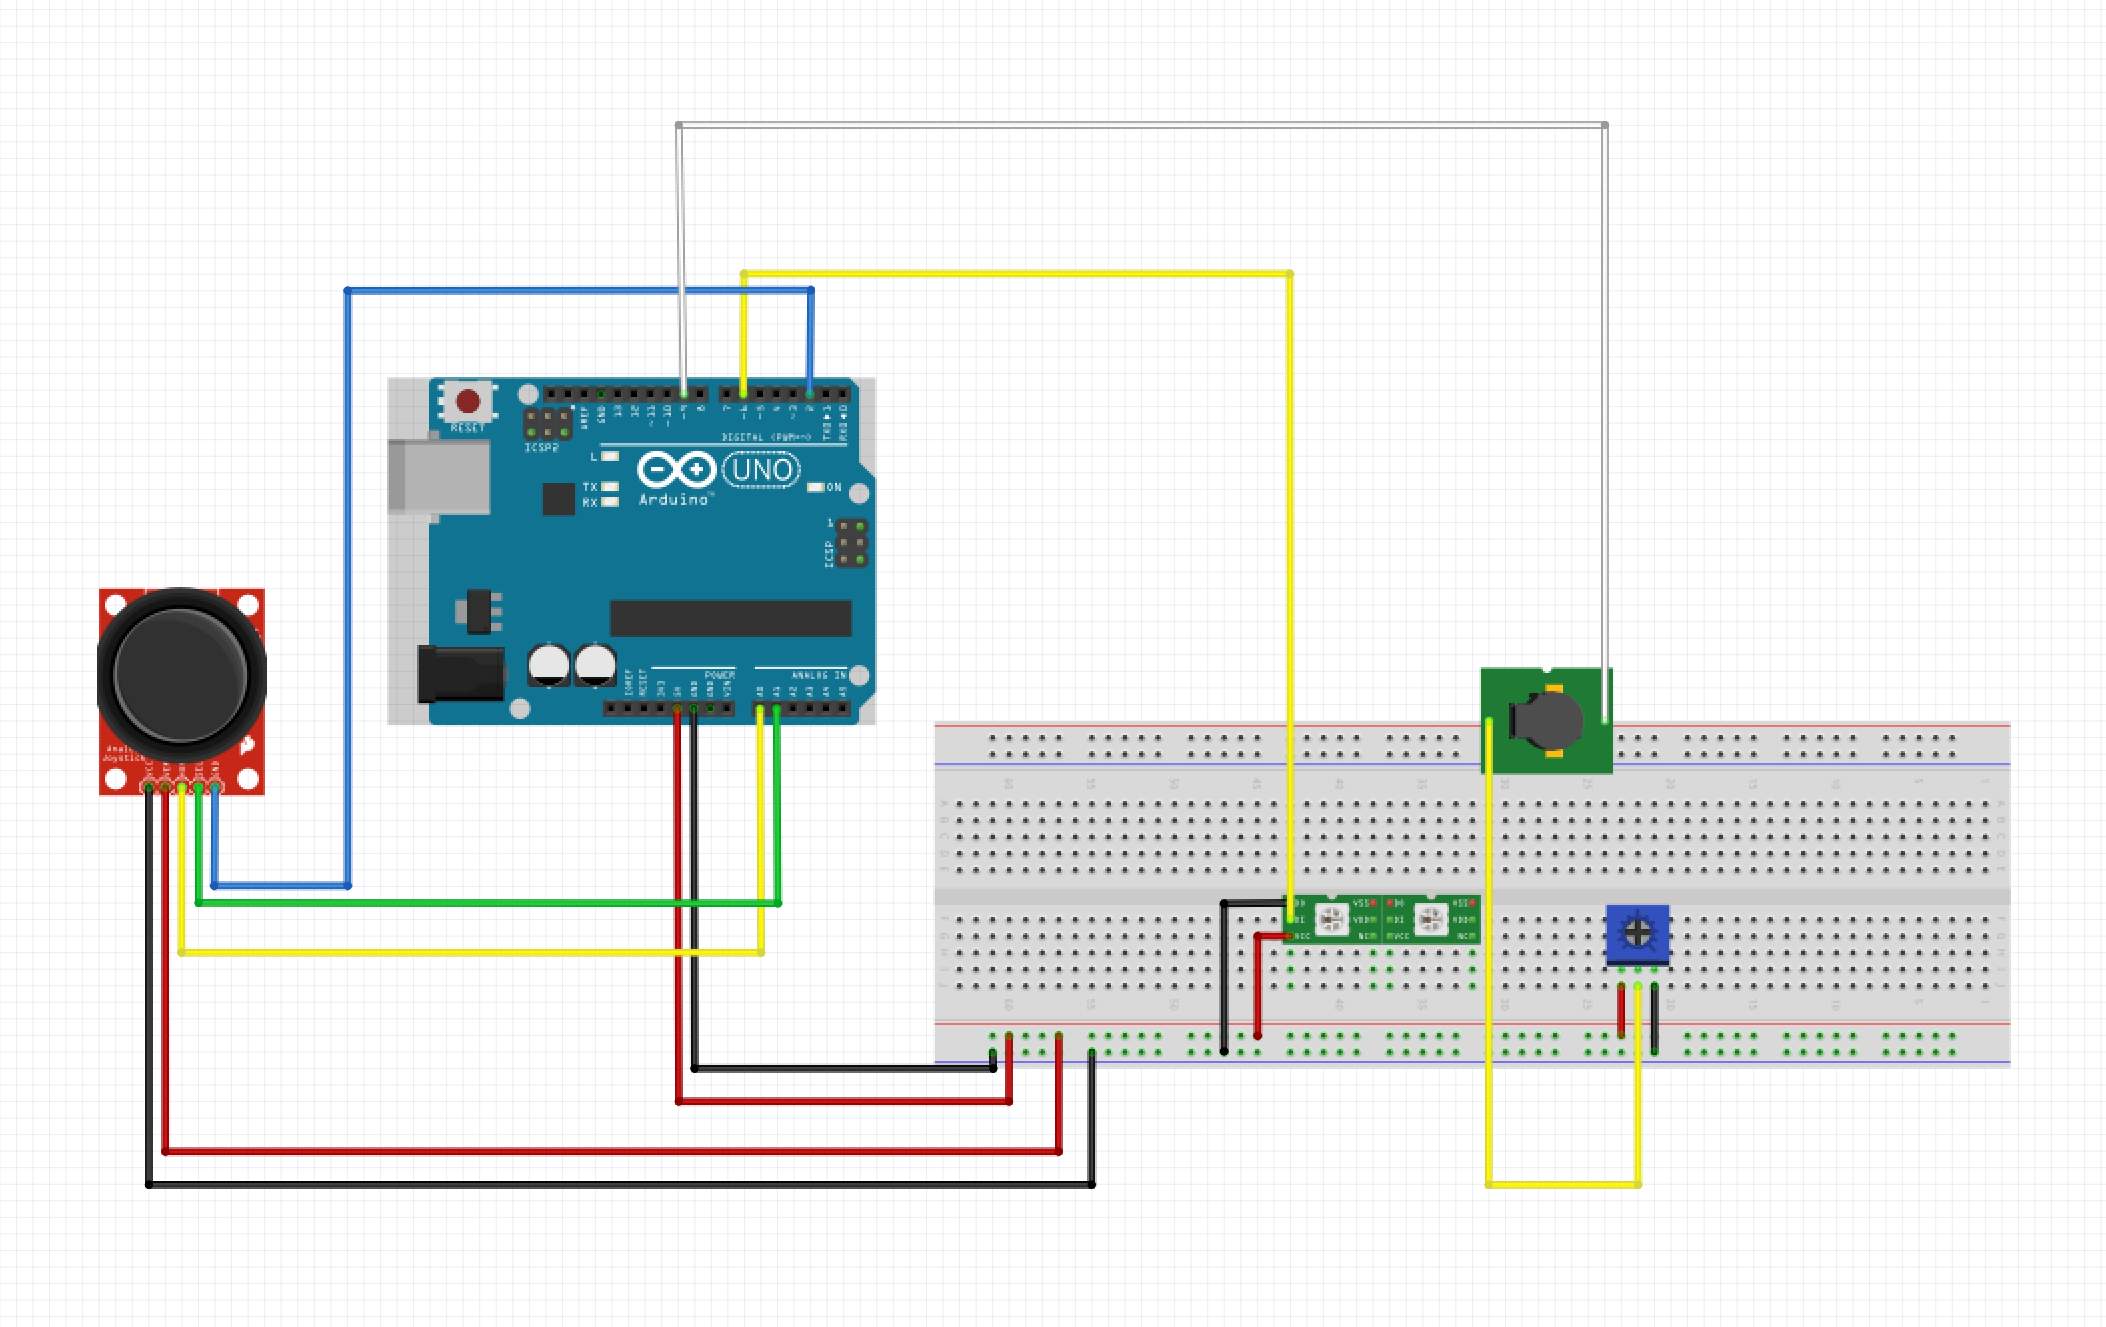
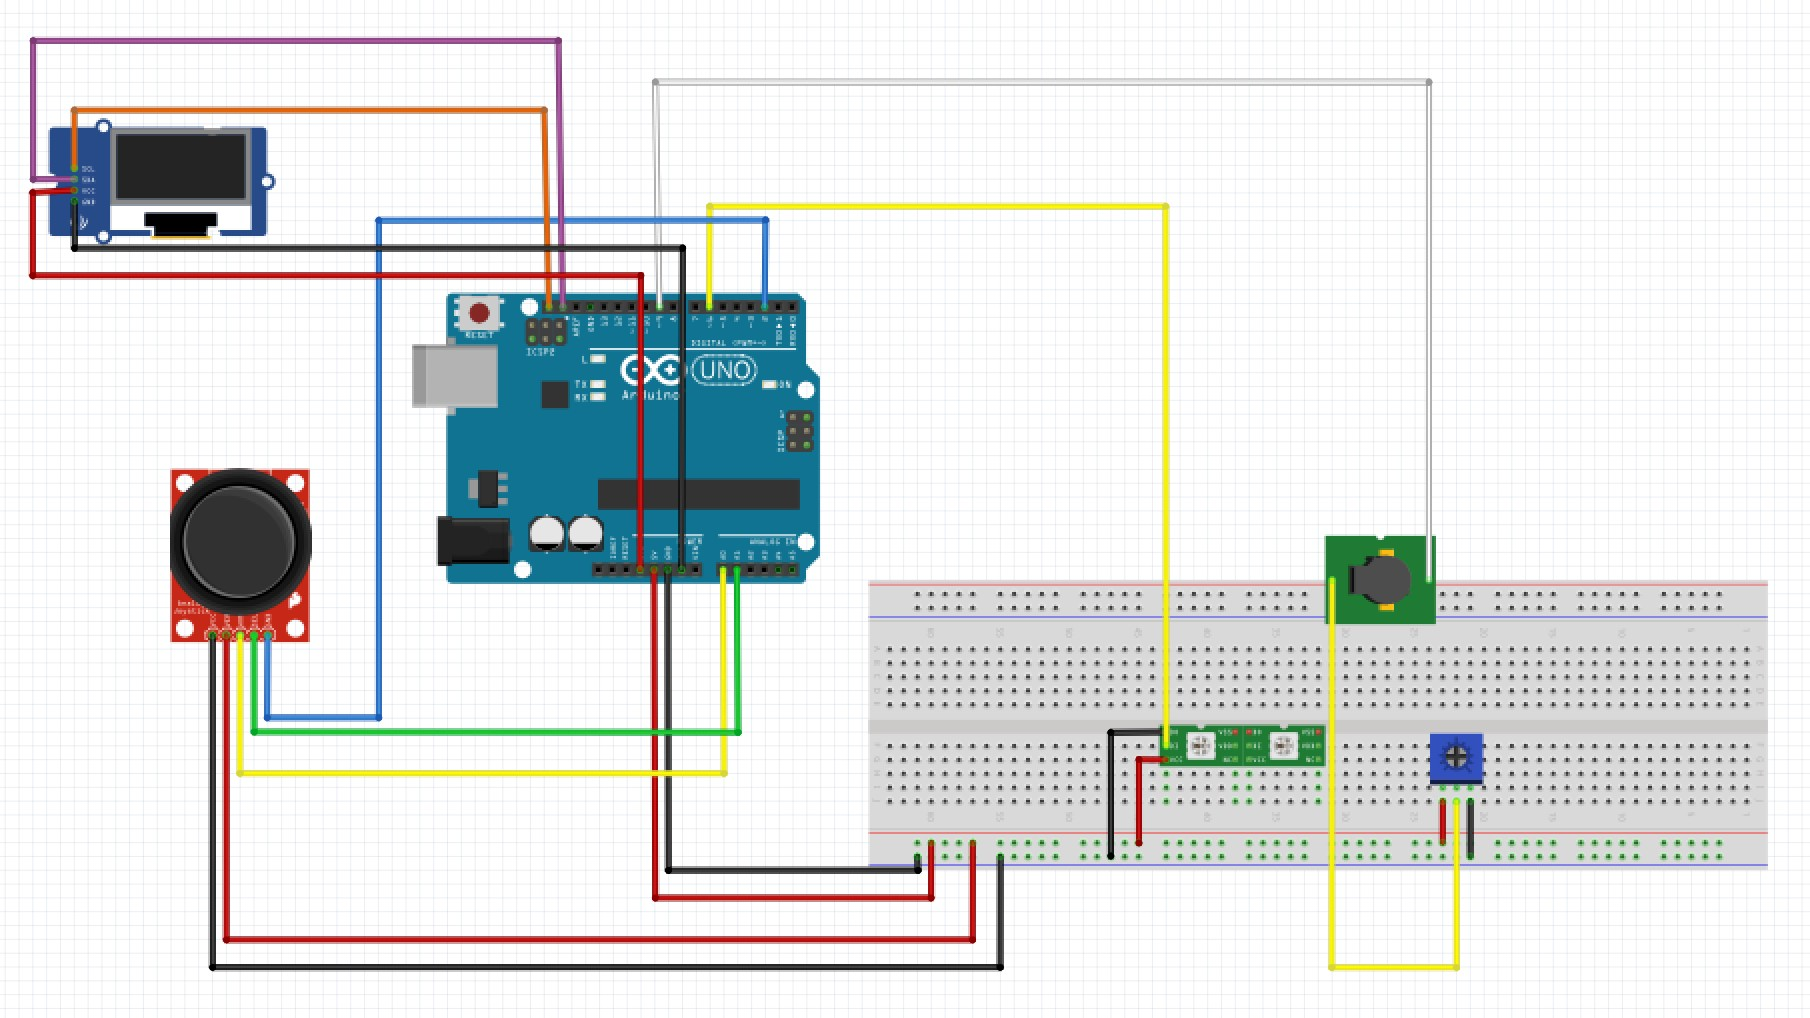
配線図をOLED追加版に差し替え／READMEの重複を整理
- 回路図.png を OLED(接続用QR表示)込みの新配線図に差し替え。RPGの配線表にOLED行を追加、
  UNO表記だが実機はUNO R4 WiFiである旨を注記
- 各READMEで重複していた「外で遊ぶ」をリポジトリ直下READMEに集約し、
  サブ側はそちらへのリンクに（役割分担で重複を解消）

Changed region(s): [[0.0, 0.0305, 0.9901, 0.9745], [0.7425, 0.944, 0.8044, 0.9745]]

diff --git a/RPG_Quest/README.md b/RPG_Quest/README.md
@@ -125,14 +125,17 @@ flowchart LR
 ## 配線・回路図（実機で遊ぶ場合）
 
 <p align="center">
-  <img src="回路図.png" width="560" alt="回路図：Arduino UNO ＋ ジョイスティック / WS2812 RGB LED / パッシブブザー / ボリューム">
+  <img src="回路図.png" width="600" alt="回路図：Arduino UNO R4 WiFi ＋ OLED(QR表示) / ジョイスティック / WS2812 RGB LED / パッシブブザー＋ボリューム">
 </p>
+
+> ※図はUNO表記ですが、実機は **Arduino UNO R4 WiFi**（配線は同じ）。OLEDは接続用QRの表示に使います。
 
 | 部品 | Arduino | 備考 |
 |------|---------|------|
 | ジョイスティック VRx / VRy / SW | A0 / A1 / D2 | VCC→5V, GND→GND |
 | パッシブブザー（+） | D9 | (−)→ボリューム中央→外側→GND（直列＝音量調整） |
 | WS2812 DIN | D6 | 5V→5V, GND→GND |
+| OLED（SSD1306 128×64） | SDA / SCL（I2C・0x3C） | VCC→3.3V, GND→GND（接続用QRを表示） |
 | 内蔵 12×8 LEDマトリクス | （本体内蔵） | 追加配線なし |
 
 > WS2812を使うため、Arduino IDE で **Adafruit NeoPixel** ライブラリの導入が必要です。
@@ -141,22 +144,10 @@ flowchart LR
 
 ## 外で遊ぶ（持ち出しプレイ）
 
-家のWi-Fiが無い屋外でも、**Arduino自身がWi-Fiアクセスポイント(AP)になる**ので単体で遊べます。
+家のWi-Fiが無い屋外でも、**Arduino自身がWi-Fiアクセスポイント(AP)になる**ので単体で遊べます。電源はUSBモバイルバッテリー（5V / 1A以上推奨）をUSB-Cに挿すだけ。
 
-- **電源**：USBモバイルバッテリー（5V）をArduinoのUSB-Cに挿すだけ。基板（LED・ブザー）にもArduino経由で給電されるので、別の電源モジュールは不要です。
-- **接続**：起動時に家のルーターが見つからなければ**自動でAPモード**に切り替わります（ジョイスティックのボタンを押しながらリセットすると待たずに即AP）。あとはスマホをQRでつなぐだけ。
-
-<p align="center">
-  <img src="報告画像/qr_outdoor.png" width="520" alt="外プレイ用QR：①Wi-Fi接続 ②ゲームを開く">
-</p>
-
-| 手順 | 内容 |
-|------|------|
-| ① | スマホのカメラで左のQRを読み、Wi-Fi **`RPG_Quest`**（パスワード無し・オープン）に接続 |
-| ② | 右のQRを読み、`http://192.168.4.1/` を開く → ゲーム開始 |
-
-> モバイルバッテリーは **5V / 1A以上**を推奨（全LED点灯時の瞬間電流に余裕を持たせるため）。
-> APの名前は `RPG_Quest.ino` の `AP_SSID` で変更できます（パスワード無しのオープンAP。変えたらQRも作り直し。QR生成は `_make_qr.py`＝開発用ローカルスクリプト・リポジトリ未同梱）。
+> **手順・接続用QR・注意点はリポジトリ直下の [README](../README.md) に集約しています**（各フォルダで重複しないよう共通事項はそちらに）。
+> 報告会・デモは、迷路とRPGを1台で見せられる統合版 **[GameSelect](../GameSelect/)** がおすすめです。
 
 ---
 
